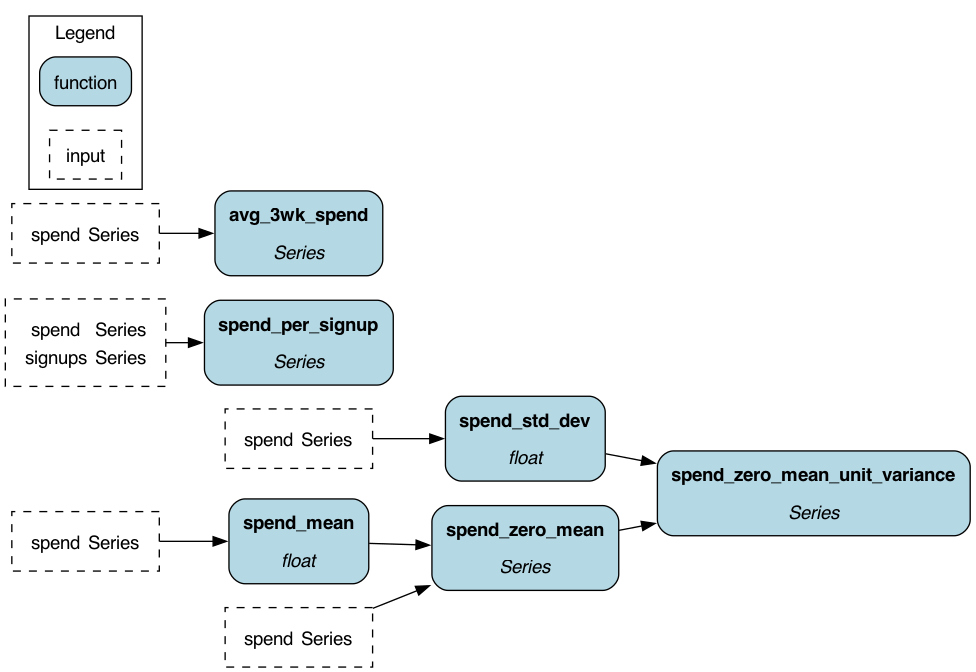
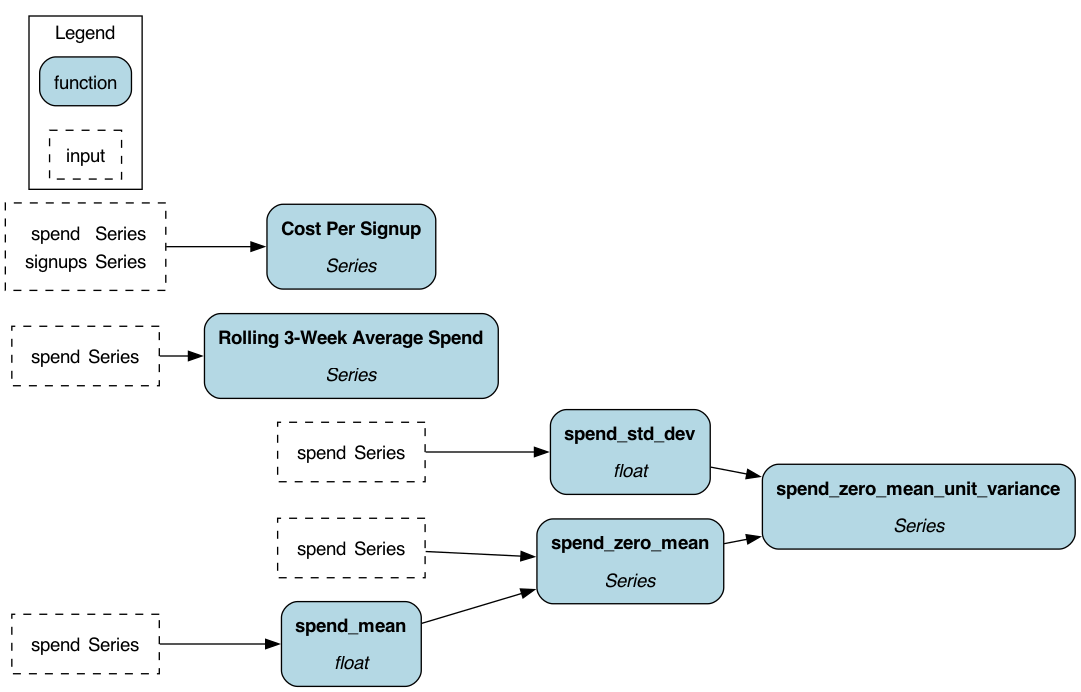
Enhance visualization with display_name tag support
This update introduces the  tag for nodes in graph visualizations, allowing for human-readable labels while maintaining valid Python identifiers as function names. The changes include:

- Documentation updates to explain the usage of  in visualizations.
- Modifications to the graph creation logic to utilize  when available.
- New tests to ensure  is correctly applied in visualizations and that HTML characters are properly escaped.
- Example functions demonstrating the use of  in a new resource file.

This feature improves the readability of visualizations for stakeholders while keeping the codebase Pythonic.

Changed region(s): [[0.0, 0.0, 1.0, 1.0], [0.0307, 0.7812, 0.1537, 0.8438]]

diff --git a/tests/test_graph.py b/tests/test_graph.py
@@ -1309,3 +1309,89 @@ def test_update_dependencies():
     for node_name, node_ in new_nodes.items():
         assert node_.dependencies == nodes[node_name].dependencies
         assert node_.depended_on_by == nodes[node_name].depended_on_by
+
+
+# Tests for display_name tag support in graphviz visualization
+# See: https://github.com/apache/hamilton/issues/1413
+
+
+def test_create_graphviz_graph_with_display_name():
+    """Tests that display_name tag is used for node labels in visualization."""
+    import tests.resources.display_name_functions
+
+    config = {}
+    fg = graph.FunctionGraph.from_modules(tests.resources.display_name_functions, config=config)
+    nodes, user_nodes = fg.get_upstream_nodes(["output_node"])
+    all_nodes = nodes.union(user_nodes)
+
+    digraph = graph.create_graphviz_graph(
+        all_nodes,
+        "Display Name Test\n",
+        graphviz_kwargs={},
+        node_modifiers={},
+        strictly_display_only_nodes_passed_in=False,
+        config=config,
+    )
+    dot_string = str(digraph)
+
+    # Node with display_name should show the display name, not the function name
+    assert "My Custom Display Name" in dot_string
+    assert "Final Output Node" in dot_string
+
+    # Node without display_name should show the function name
+    assert "node_without_display_name" in dot_string
+
+
+def test_create_graphviz_graph_display_name_html_escaping():
+    """Tests that display_name values with special characters are properly HTML escaped."""
+    import tests.resources.display_name_functions
+
+    config = {}
+    fg = graph.FunctionGraph.from_modules(tests.resources.display_name_functions, config=config)
+    nodes, user_nodes = fg.get_upstream_nodes(["node_with_special_chars"])
+    all_nodes = nodes.union(user_nodes)
+
+    digraph = graph.create_graphviz_graph(
+        all_nodes,
+        "HTML Escape Test\n",
+        graphviz_kwargs={},
+        node_modifiers={},
+        strictly_display_only_nodes_passed_in=False,
+        config=config,
+    )
+    dot_string = str(digraph)
+
+    # Special characters should be HTML escaped
+    # < becomes &lt;, > becomes &gt;, & becomes &amp;, " becomes &quot;
+    assert "&lt;" in dot_string  # <
+    assert "&gt;" in dot_string  # >
+    assert "&amp;" in dot_string  # &
+    assert "&quot;" in dot_string  # "
+
+    # The raw special characters should NOT appear unescaped in the label
+    # (they would break graphviz HTML parsing)
+    assert 'label=<<b>Special <Characters>' not in dot_string
+
+
+def test_create_graphviz_graph_without_display_name_backward_compatible():
+    """Tests that nodes without display_name tag still work as before."""
+    import tests.resources.dummy_functions
+
+    config = {}
+    fg = graph.FunctionGraph.from_modules(tests.resources.dummy_functions, config=config)
+    nodes, user_nodes = fg.get_upstream_nodes(["A", "B"])
+    all_nodes = nodes.union(user_nodes)
+
+    digraph = graph.create_graphviz_graph(
+        all_nodes,
+        "Backward Compatibility Test\n",
+        graphviz_kwargs={},
+        node_modifiers={},
+        strictly_display_only_nodes_passed_in=False,
+        config=config,
+    )
+    dot_string = str(digraph)
+
+    # Without display_name tag, node names should be used (existing behavior)
+    assert "<b>A</b>" in dot_string
+    assert "<b>B</b>" in dot_string

diff --git a/hamilton/graph.py b/hamilton/graph.py
@@ -283,34 +283,51 @@ def create_graphviz_graph(
         name and type but values can be overridden. Overriding is currently
         used for materializers since `type_` is stored in n.tags.
 
+        If a node has a 'display_name' tag, it will be used as the label
+        instead of the node name. This allows human-readable names in
+        visualizations while keeping Python-valid identifiers as node names.
+        See: https://github.com/apache/hamilton/issues/1413
+
         ref: https://graphviz.org/doc/info/shapes.html#html
         """
-        name = n.name if name is None else name
+        # Determine display name: explicit name param > display_name tag > node.name
+        if name is not None:
+            display_name = name
+        elif n.tags.get("display_name"):
+            display_name = n.tags["display_name"]
+        else:
+            display_name = n.name
+
         if type_string is None:
             type_string = get_type_as_string(n.type) if get_type_as_string(n.type) else ""
 
         # We need to ensure that name and type string are HTML-escaped
-        # strings to avoid syntax errors. This is particular important
-        # because config *values* are passed through this function
+        # strings to avoid syntax errors. This is particularly important
+        # because config *values* and display_name tags are passed through this function
         # see issue: https://github.com/apache/hamilton/issues/1200
         # see graphviz ref: https://graphviz.org/doc/info/shapes.html#html
         if len(type_string) > MAX_STRING_LENGTH:
             type_string = type_string[:MAX_STRING_LENGTH] + "[...]"
 
+        escaped_display_name = html.escape(display_name, quote=True)
         escaped_type_string = html.escape(type_string, quote=True)
-        return f"<<b>{name}</b><br /><br /><i>{escaped_type_string}</i>>"
+        return f"<<b>{escaped_display_name}</b><br /><br /><i>{escaped_type_string}</i>>"
 
     def _get_input_label(input_nodes: FrozenSet[node.Node]) -> str:
-        """Get a graphviz HTML-like node label formatted aspyer a table.
+        """Get a graphviz HTML-like node label formatted as a table.
         Each row is a different input node with one column containing
-        the name and the other the type.
+        the name (or display_name if present) and the other the type.
         ref: https://graphviz.org/doc/info/shapes.html#html
         """
         rows = []
         for dep in input_nodes:
-            name = dep.name
+            # Use display_name tag if present, otherwise use node name
+            display_name = dep.tags.get("display_name", dep.name)
             type_string = get_type_as_string(dep.type) if get_type_as_string(dep.type) else ""
-            rows.append(f"<tr><td>{name}</td><td>{type_string}</td></tr>")
+            # HTML escape for security
+            escaped_display_name = html.escape(display_name, quote=True)
+            escaped_type_string = html.escape(type_string, quote=True)
+            rows.append(f"<tr><td>{escaped_display_name}</td><td>{escaped_type_string}</td></tr>")
         return f"<<table border=\"0\">{''.join(rows)}</table>>"
 
     def _get_node_type(n: node.Node) -> str:

diff --git a/tests/resources/display_name_functions.py b/tests/resources/display_name_functions.py
@@ -1,0 +1,52 @@
+# Licensed to the Apache Software Foundation (ASF) under one
+# or more contributor license agreements.  See the NOTICE file
+# distributed with this work for additional information
+# regarding copyright ownership.  The ASF licenses this file
+# to you under the Apache License, Version 2.0 (the
+# "License"); you may not use this file except in compliance
+# with the License.  You may obtain a copy of the License at
+#
+#   http://www.apache.org/licenses/LICENSE-2.0
+#
+# Unless required by applicable law or agreed to in writing,
+# software distributed under the License is distributed on an
+# "AS IS" BASIS, WITHOUT WARRANTIES OR CONDITIONS OF ANY
+# KIND, either express or implied.  See the License for the
+# specific language governing permissions and limitations
+# under the License.
+
+"""Test module for display_name tag support in graphviz visualization.
+
+See: https://github.com/apache/hamilton/issues/1413
+"""
+
+from hamilton.function_modifiers import tag
+
+
+def input_a() -> int:
+    """A simple input node without display_name."""
+    return 1
+
+
+@tag(display_name="My Custom Display Name")
+def node_with_display_name(input_a: int) -> int:
+    """A node with a custom display name for visualization."""
+    return input_a + 1
+
+
+@tag(display_name="Special <Characters> & \"Quotes\"")
+def node_with_special_chars(input_a: int) -> int:
+    """A node with special HTML characters that need escaping."""
+    return input_a * 2
+
+
+@tag(owner="data-science")
+def node_without_display_name(input_a: int) -> int:
+    """A node with other tags but no display_name."""
+    return input_a + 10
+
+
+@tag(display_name="Final Output Node", owner="analytics")
+def output_node(node_with_display_name: int, node_without_display_name: int) -> int:
+    """A node with display_name and other tags."""
+    return node_with_display_name + node_without_display_name

diff --git a/examples/hello_world/my_functions.py b/examples/hello_world/my_functions.py
@@ -17,6 +17,8 @@
 
 import pandas as pd
 
+from hamilton.function_modifiers import tag
+
 """
 Notes:
   1. This file is used for all the [ray|dask|spark]/hello_world examples.
@@ -25,11 +27,13 @@ Notes:
 """
 
 
+@tag(display_name="Rolling 3-Week Average Spend")
 def avg_3wk_spend(spend: pd.Series) -> pd.Series:
     """Rolling 3 week average spend."""
     return spend.rolling(3).mean()
 
 
+@tag(display_name="Cost Per Signup")
 def spend_per_signup(spend: pd.Series, signups: pd.Series) -> pd.Series:
     """The cost per signup in relation to spend."""
     return spend / signups

diff --git a/docs/concepts/visualization.rst b/docs/concepts/visualization.rst
@@ -166,6 +166,27 @@ Configure your visualization
 
 All of the above visualization functions share parameters to customize the visualization (e.g., hide legend, hide inputs). Learn more by reviewing the API reference for `Driver.display_all_functions() <https://hamilton.apache.org/reference/drivers/Driver/#hamilton.driver.Driver.display_all_functions>`_; parameters should apply to all other visualizations.
 
+Custom node labels with display_name
+~~~~~~~~~~~~~~~~~~~~~~~~~~~~~~~~~~~~
+
+Use the ``@tag`` decorator with ``display_name`` to show human-readable labels in visualizations while keeping valid Python identifiers as function names. This is useful for creating presentation-ready diagrams or adding business-friendly names:
+
+.. code-block:: python
+
+    from hamilton.function_modifiers import tag
+
+    @tag(display_name="Parse Raw JSON")
+    def parse_raw_json(raw_data: str) -> dict:
+        return json.loads(raw_data)
+
+    @tag(display_name="Transform to DataFrame")
+    def transform_to_df(parse_raw_json: dict) -> pd.DataFrame:
+        return pd.DataFrame(parse_raw_json)
+
+When visualized, nodes will display "Parse Raw JSON" and "Transform to DataFrame" instead of their function names. This keeps your code Pythonic while making visualizations more readable for stakeholders.
+
+Note that ``display_name`` only affects visualization labels - the actual node names used in code and execution remain the function names.
+
 .. _custom-visualization-style:
 
 Apply custom style

diff --git a/docs/reference/decorators/tag.rst b/docs/reference/decorators/tag.rst
@@ -35,6 +35,31 @@ available outputs for specific tag matches. E.g.
     output = dr.execute(desired_outputs)
 
 
+**Using display_name for visualization**
+
+You can use the special ``display_name`` tag to provide a human-readable name for nodes in graphviz visualizations.
+This allows you to show user-friendly names in DAG diagrams while keeping valid Python identifiers as function names.
+
+.. code-block:: python
+
+    import pandas as pd
+    from hamilton.function_modifiers import tag
+
+    @tag(display_name="Customer Lifetime Value")
+    def customer_ltv(purchases: pd.DataFrame, tenure: pd.Series) -> pd.Series:
+        """Calculate customer lifetime value."""
+        return purchases.sum() * tenure
+
+When you visualize the DAG using ``dr.display_all_functions()``, the node will display "Customer Lifetime Value"
+instead of "customer_ltv". This is useful for:
+
+- Creating presentation-ready diagrams for stakeholders
+- Adding business-friendly names for technical functions
+- Making visualizations more readable for non-technical audiences
+
+Note that ``display_name`` only affects visualization - the actual node name used in code remains the function name.
+
+
 ----
 
 **Reference Documentation**
